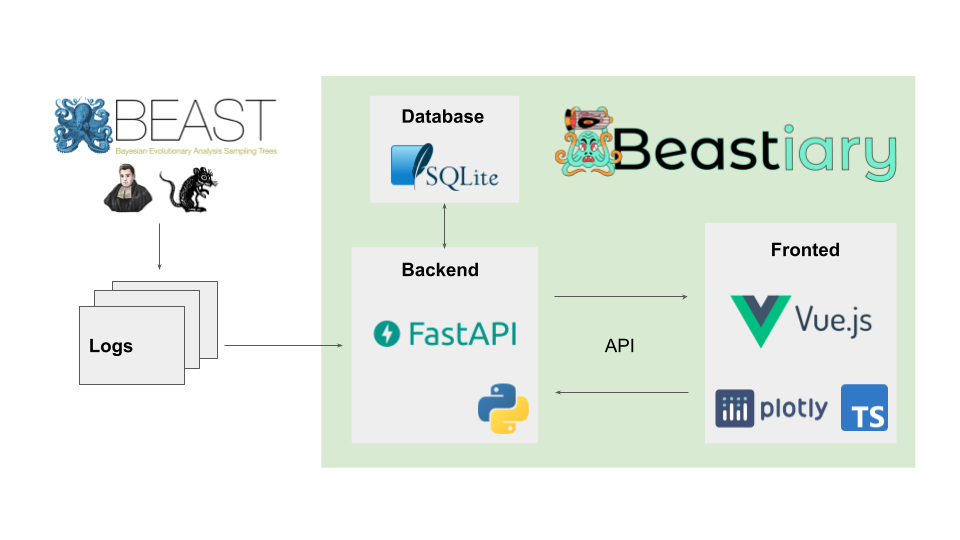
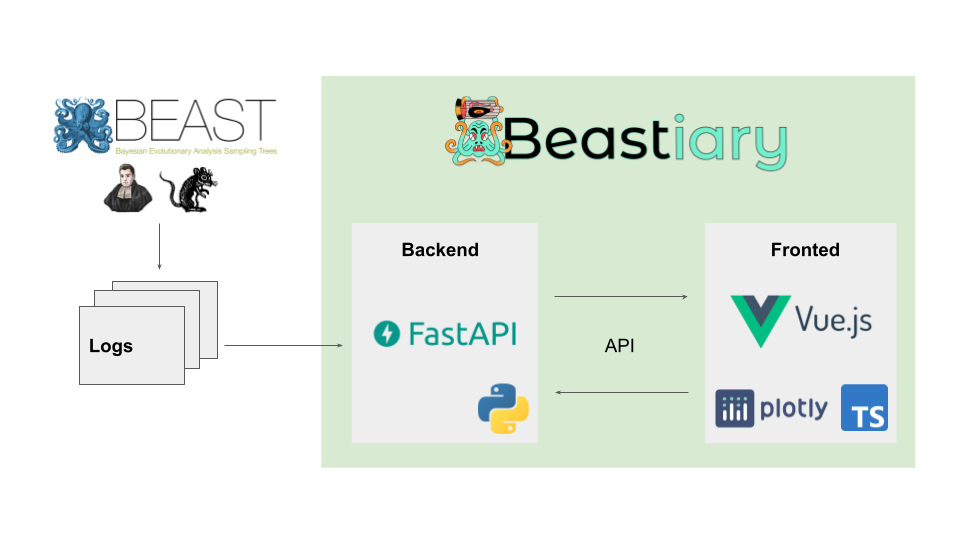
:memo: update docs

Changed region(s): [[0.3438, 0.1778, 0.9375, 0.5333]]

diff --git a/docs/design.md b/docs/design.md
@@ -2,9 +2,9 @@ Beastiary is comprised of two parts, the back-end, a web-sever that exposes an A
 
 ![](images/Implementation.png)
 
-The back-end monitors the log files generated by standard Bayesian phylogenetics software and communicates data to the front end via a web API. Sample data are stored in an in-memory SQLite database. The front-end consumes data from the back-end via the web API and triggers the back-end to check for updates in the log files.
+The back-end monitors the log files generated by standard Bayesian phylogenetics software and communicates data to the front end via a web API. The front-end consumes data from the back-end via the web API and triggers the back-end to check for updates in the log files.
 
-The Beastiary back-end is written in modern Python (version 3.9) and builds on a modern web framework, [FastAPI](https://fastapi.tiangolo.com/). The back-end uses an in memory SQLite database to track log files. Users can specify the path to log files and beastiary will check these files for updates when requested. Beastiary uses caching to save time reading through large log files. Once samples have been read from the log file they are saved to the in-memory SQLite database and therefore any subsequent reads of the same samples are returned from memory. This last step is key to facilitate monitoring analyses that are very time consuming.
+The Beastiary back-end is written in modern Python (version 3.9) and builds on a modern web framework, [FastAPI](https://fastapi.tiangolo.com/). Users can specify the path to log files and beastiary will check these files for updates when requested. Beastiary uses caching to save time reading through large log files. Once samples have been read from the log file they are saved in-memory and therefore any subsequent reads of the same samples are returned from memory. This last step is key to facilitate monitoring analyses that are very time consuming.
 
 The fronted is written in modern JavaScript (Typescript) and is builds on [Vue.js](https://vuejs.org/) for interactivity. The front-end is an interactive single page web-app that allows users to visualise and explore trace data. Once a log file is added the front-end will periodically poll the back-end for new data appended to this log file. The front-end recalculates the effective sample size (ESS) of each trace when new data is returned. This statistic is a useful measure of the number of independent samples from the posterior, where a rule of thumb is to obtain at least 200 for key parameters (Rambaut et al., 2018). A burn-in (default 10%) is applied to all traces. Because the trace is updated in users analysing data in real-time may need to adjust the burn-in depending on the number of samples collected. We see this as a befit as burn-in is often arbitrarily set to 10%, applying a burn-in in real-time forces users to consider an appropriate value for their analysis.
 
